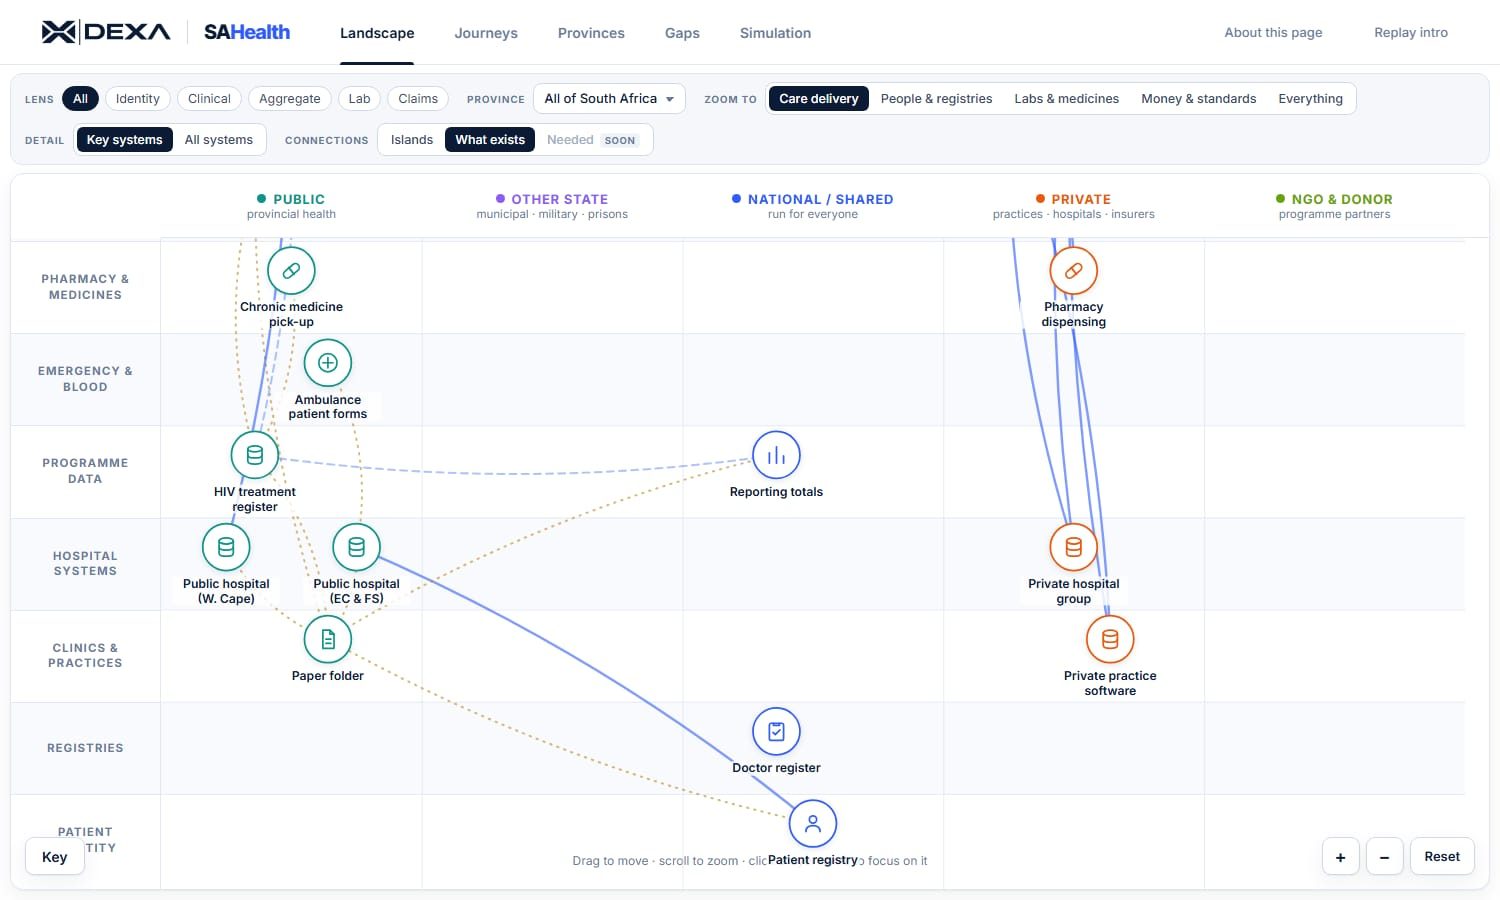
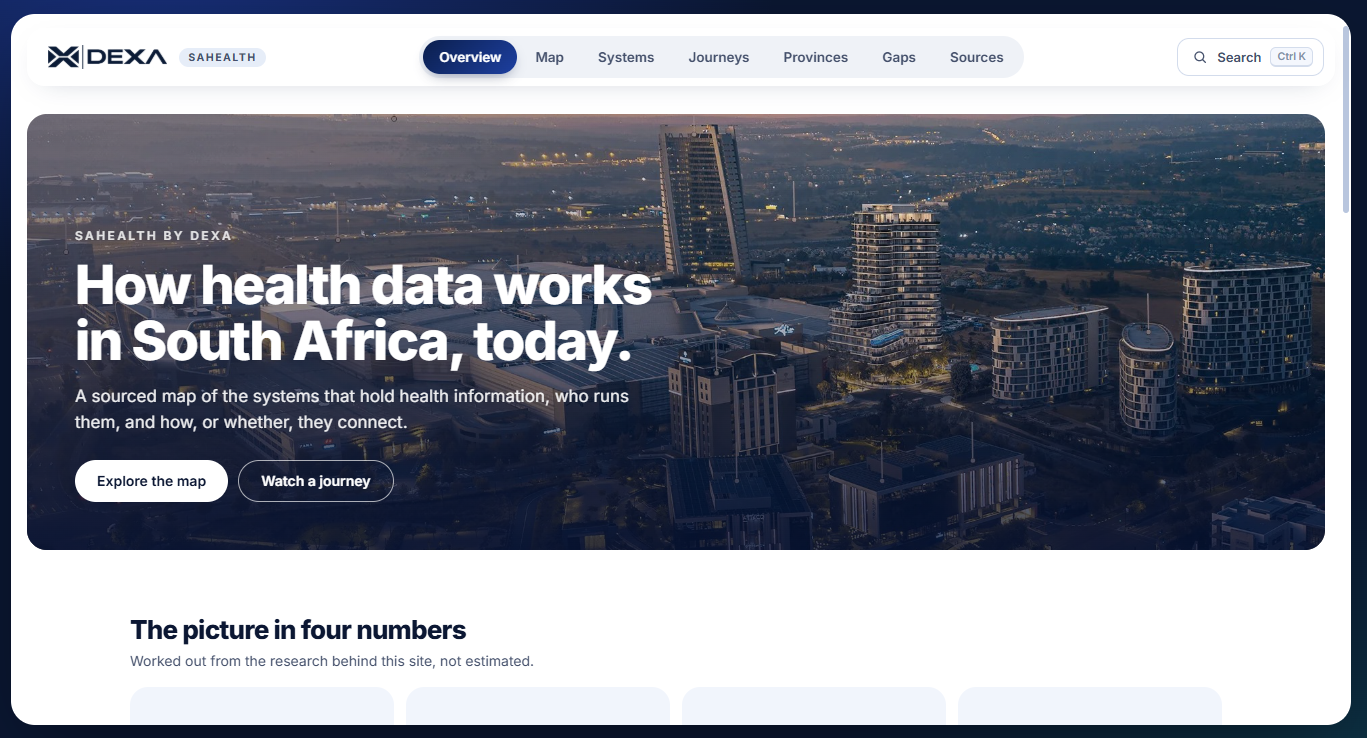
Explorer preview: use the new screenshot of the redesigned explorer

diff --git a/src/pages/Landing.tsx b/src/pages/Landing.tsx
@@ -333,7 +333,7 @@ export default function Landing({ signedIn }: { signedIn: boolean }) {
             <div className="lp__explorerimg">
               <img
                 src="/explorer-preview.png"
-                alt="Preview of the SA Health Explorer: a map of public, private and national health systems and how they connect"
+                alt="The SAHealth explorer: its overview page, with a top navigation bar and a hero image of a South African city"
                 loading="lazy"
               />
             </div>
